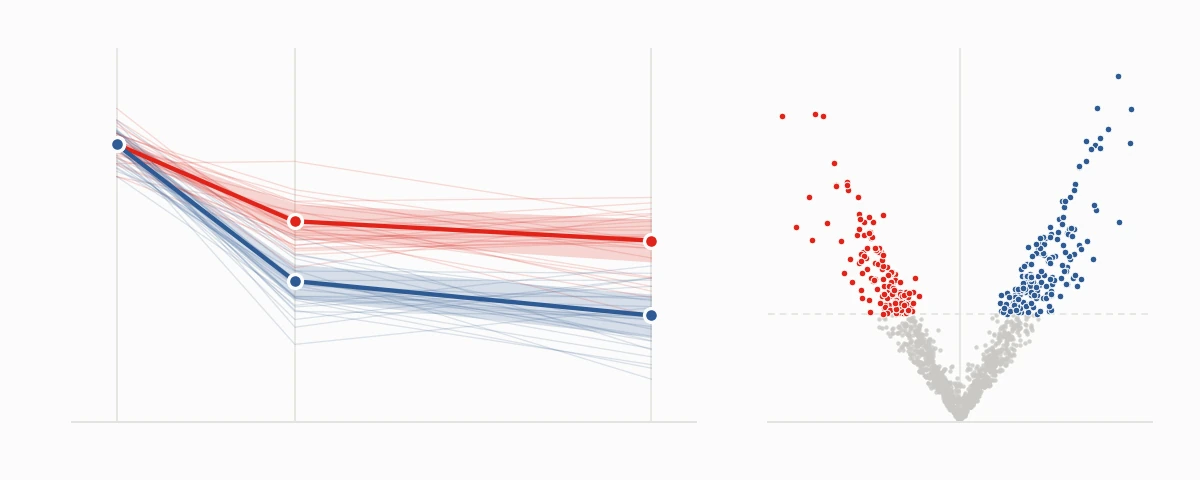
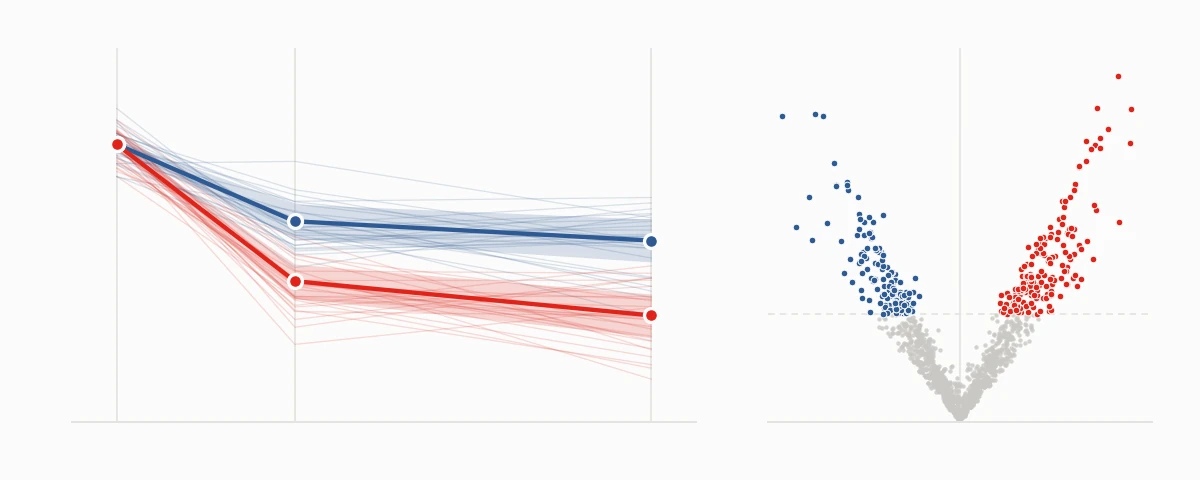
Make red the larger-decrease arm and the increased side of the volcano
Claude-Session: https://claude.ai/code/session_01V2DWJijtVfnoR5cbf3pvKC

diff --git a/scripts/render_project_art.py b/scripts/render_project_art.py
@@ -80,7 +80,7 @@ def lilly(rng, rel="assets/img/projects/work/lilly-proteomics.webp", size=(8, 5)
 
     ax = fig.add_axes([0.06, 0.12, 0.52, 0.78])
     clean_axes(ax)
-    for color, drop in ((LILLY_RED, 0.9), (LILLY_BLUE, 1.6)):
+    for color, drop in ((LILLY_BLUE, 0.9), (LILLY_RED, 1.6)):
         mean = np.array([0, -drop * 0.8, -drop])
         for _ in range(28):
             noise = rng.normal(0, 0.28, 3)
@@ -104,8 +104,8 @@ def lilly(rng, rel="assets/img/projects/work/lilly-proteomics.webp", size=(8, 5)
     sig = p > 3.2
     up, down = sig & (fc > 0), sig & (fc < 0)
     ax2.scatter(fc[~sig], p[~sig], s=7, color=NEUTRAL, lw=0, alpha=0.8)
-    ax2.scatter(fc[up], p[up], s=16, color=LILLY_BLUE, edgecolor=SURFACE, linewidth=0.6, zorder=3)
-    ax2.scatter(fc[down], p[down], s=16, color=LILLY_RED, edgecolor=SURFACE, linewidth=0.6, zorder=3)
+    ax2.scatter(fc[up], p[up], s=16, color=LILLY_RED, edgecolor=SURFACE, linewidth=0.6, zorder=3)
+    ax2.scatter(fc[down], p[down], s=16, color=LILLY_BLUE, edgecolor=SURFACE, linewidth=0.6, zorder=3)
     ax2.axhline(3.2, color=GRID, lw=1, ls=(0, (4, 3)), zorder=0)
     ax2.axvline(0, color=GRID, lw=1, zorder=0)
     lim = np.abs(fc).max() * 1.08
